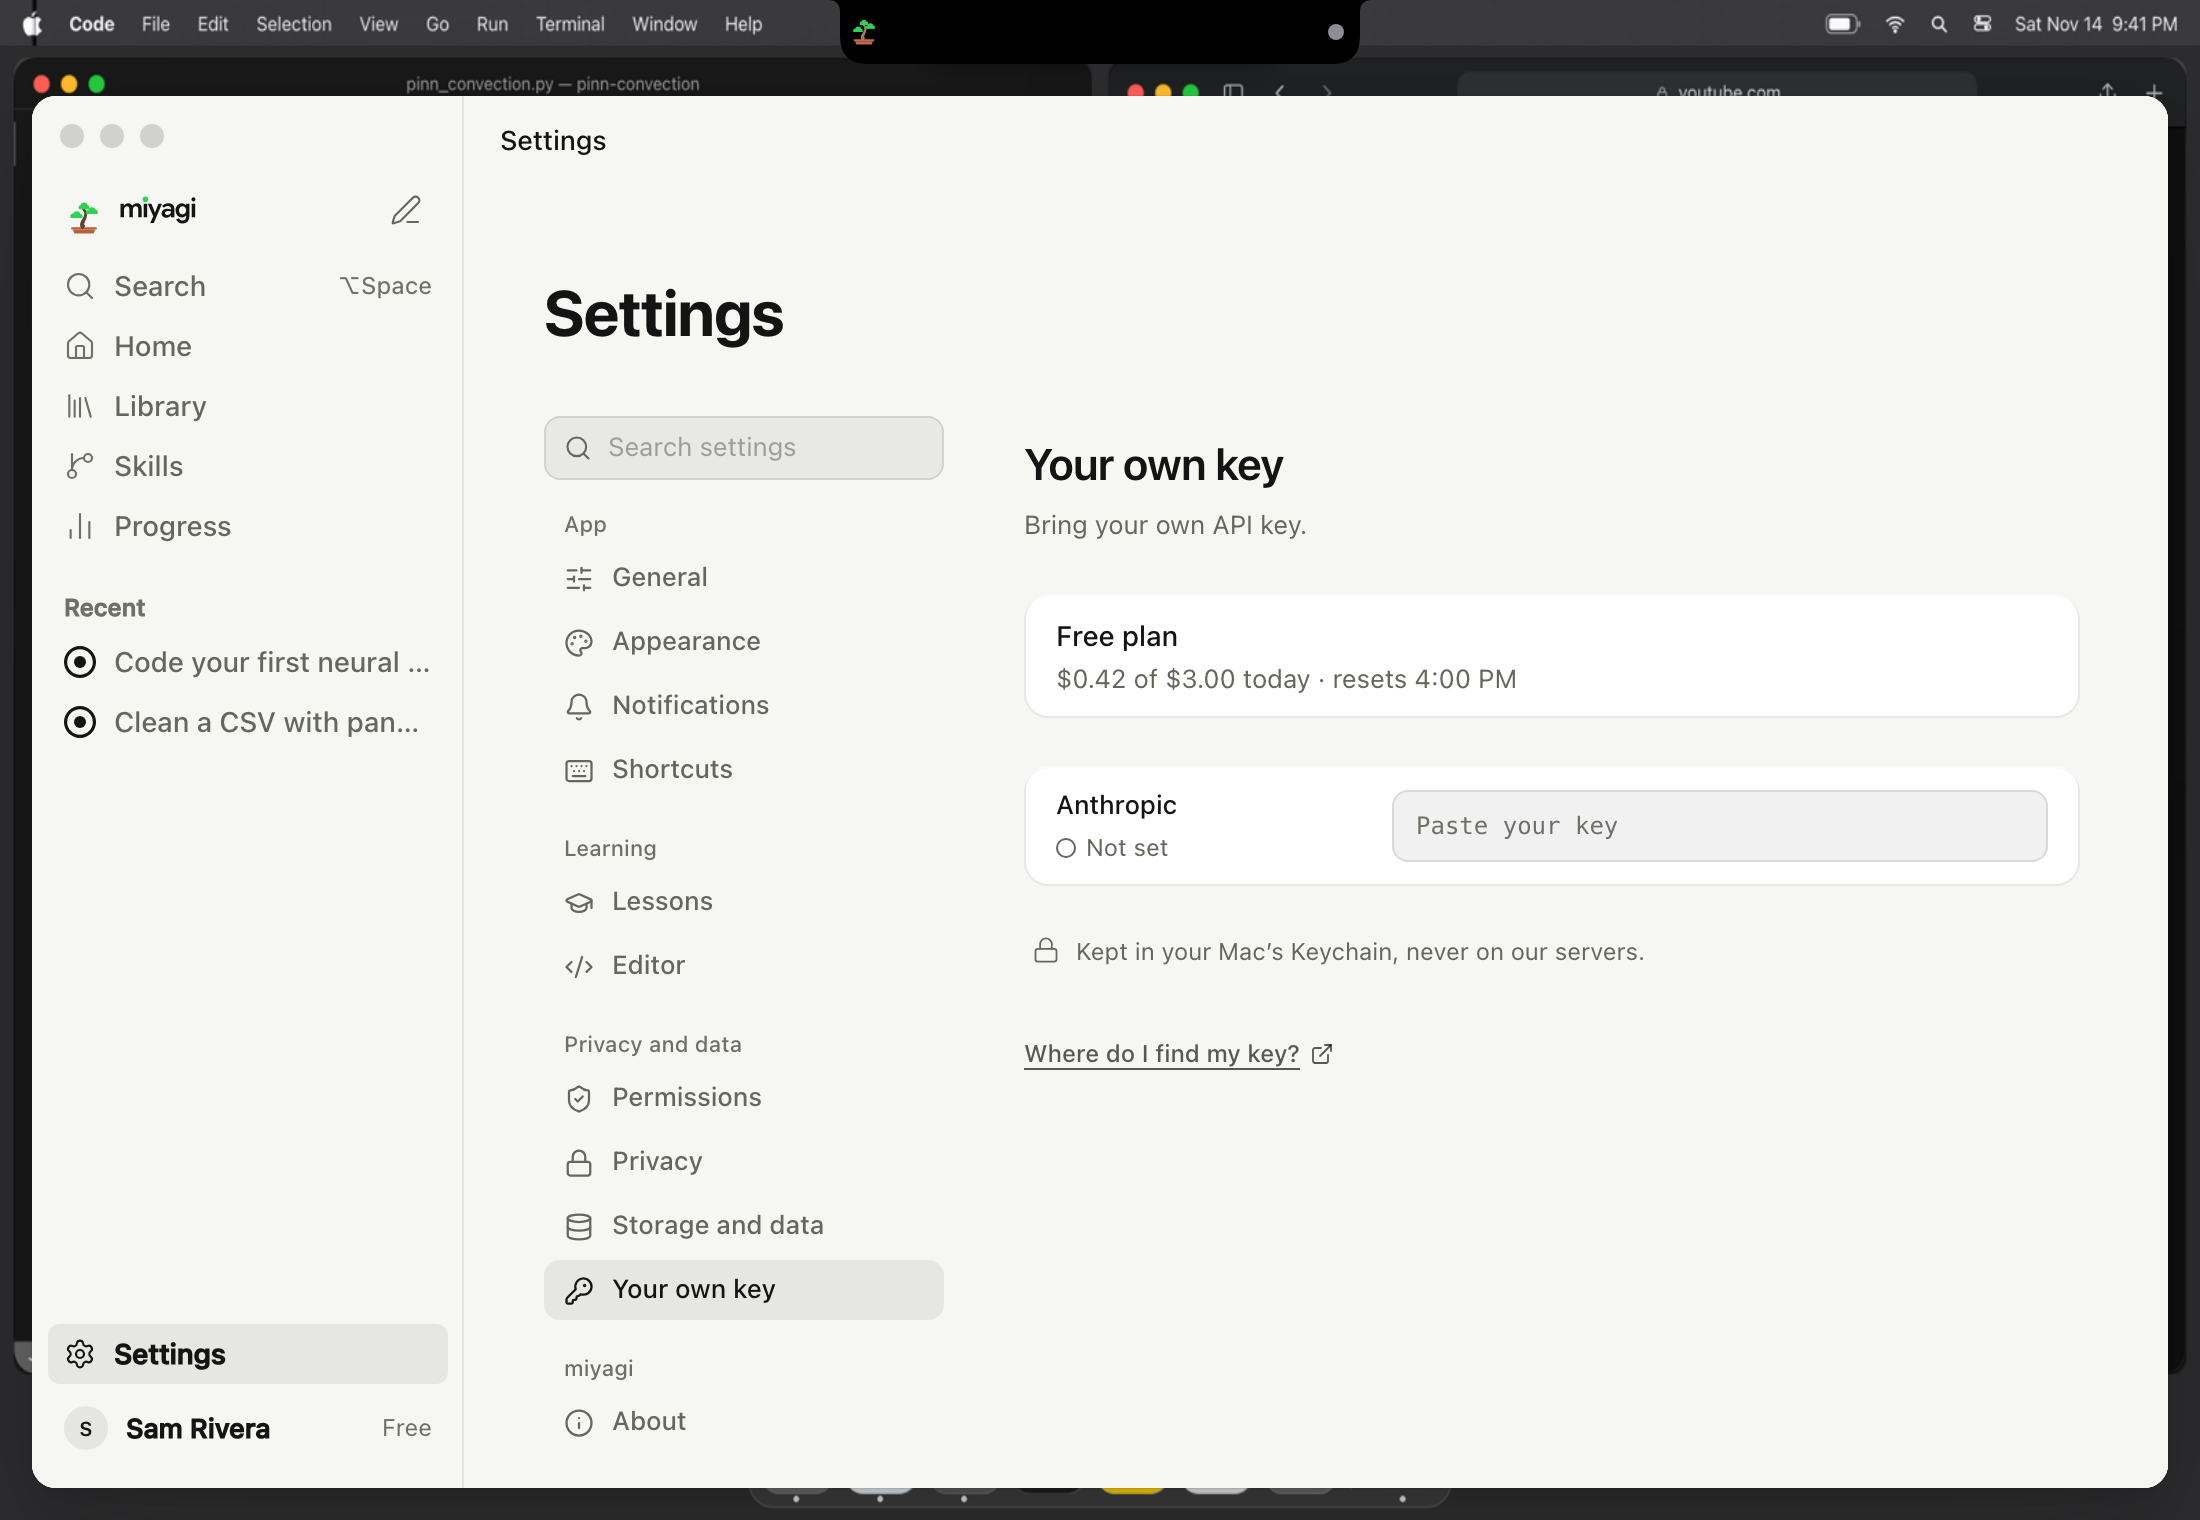
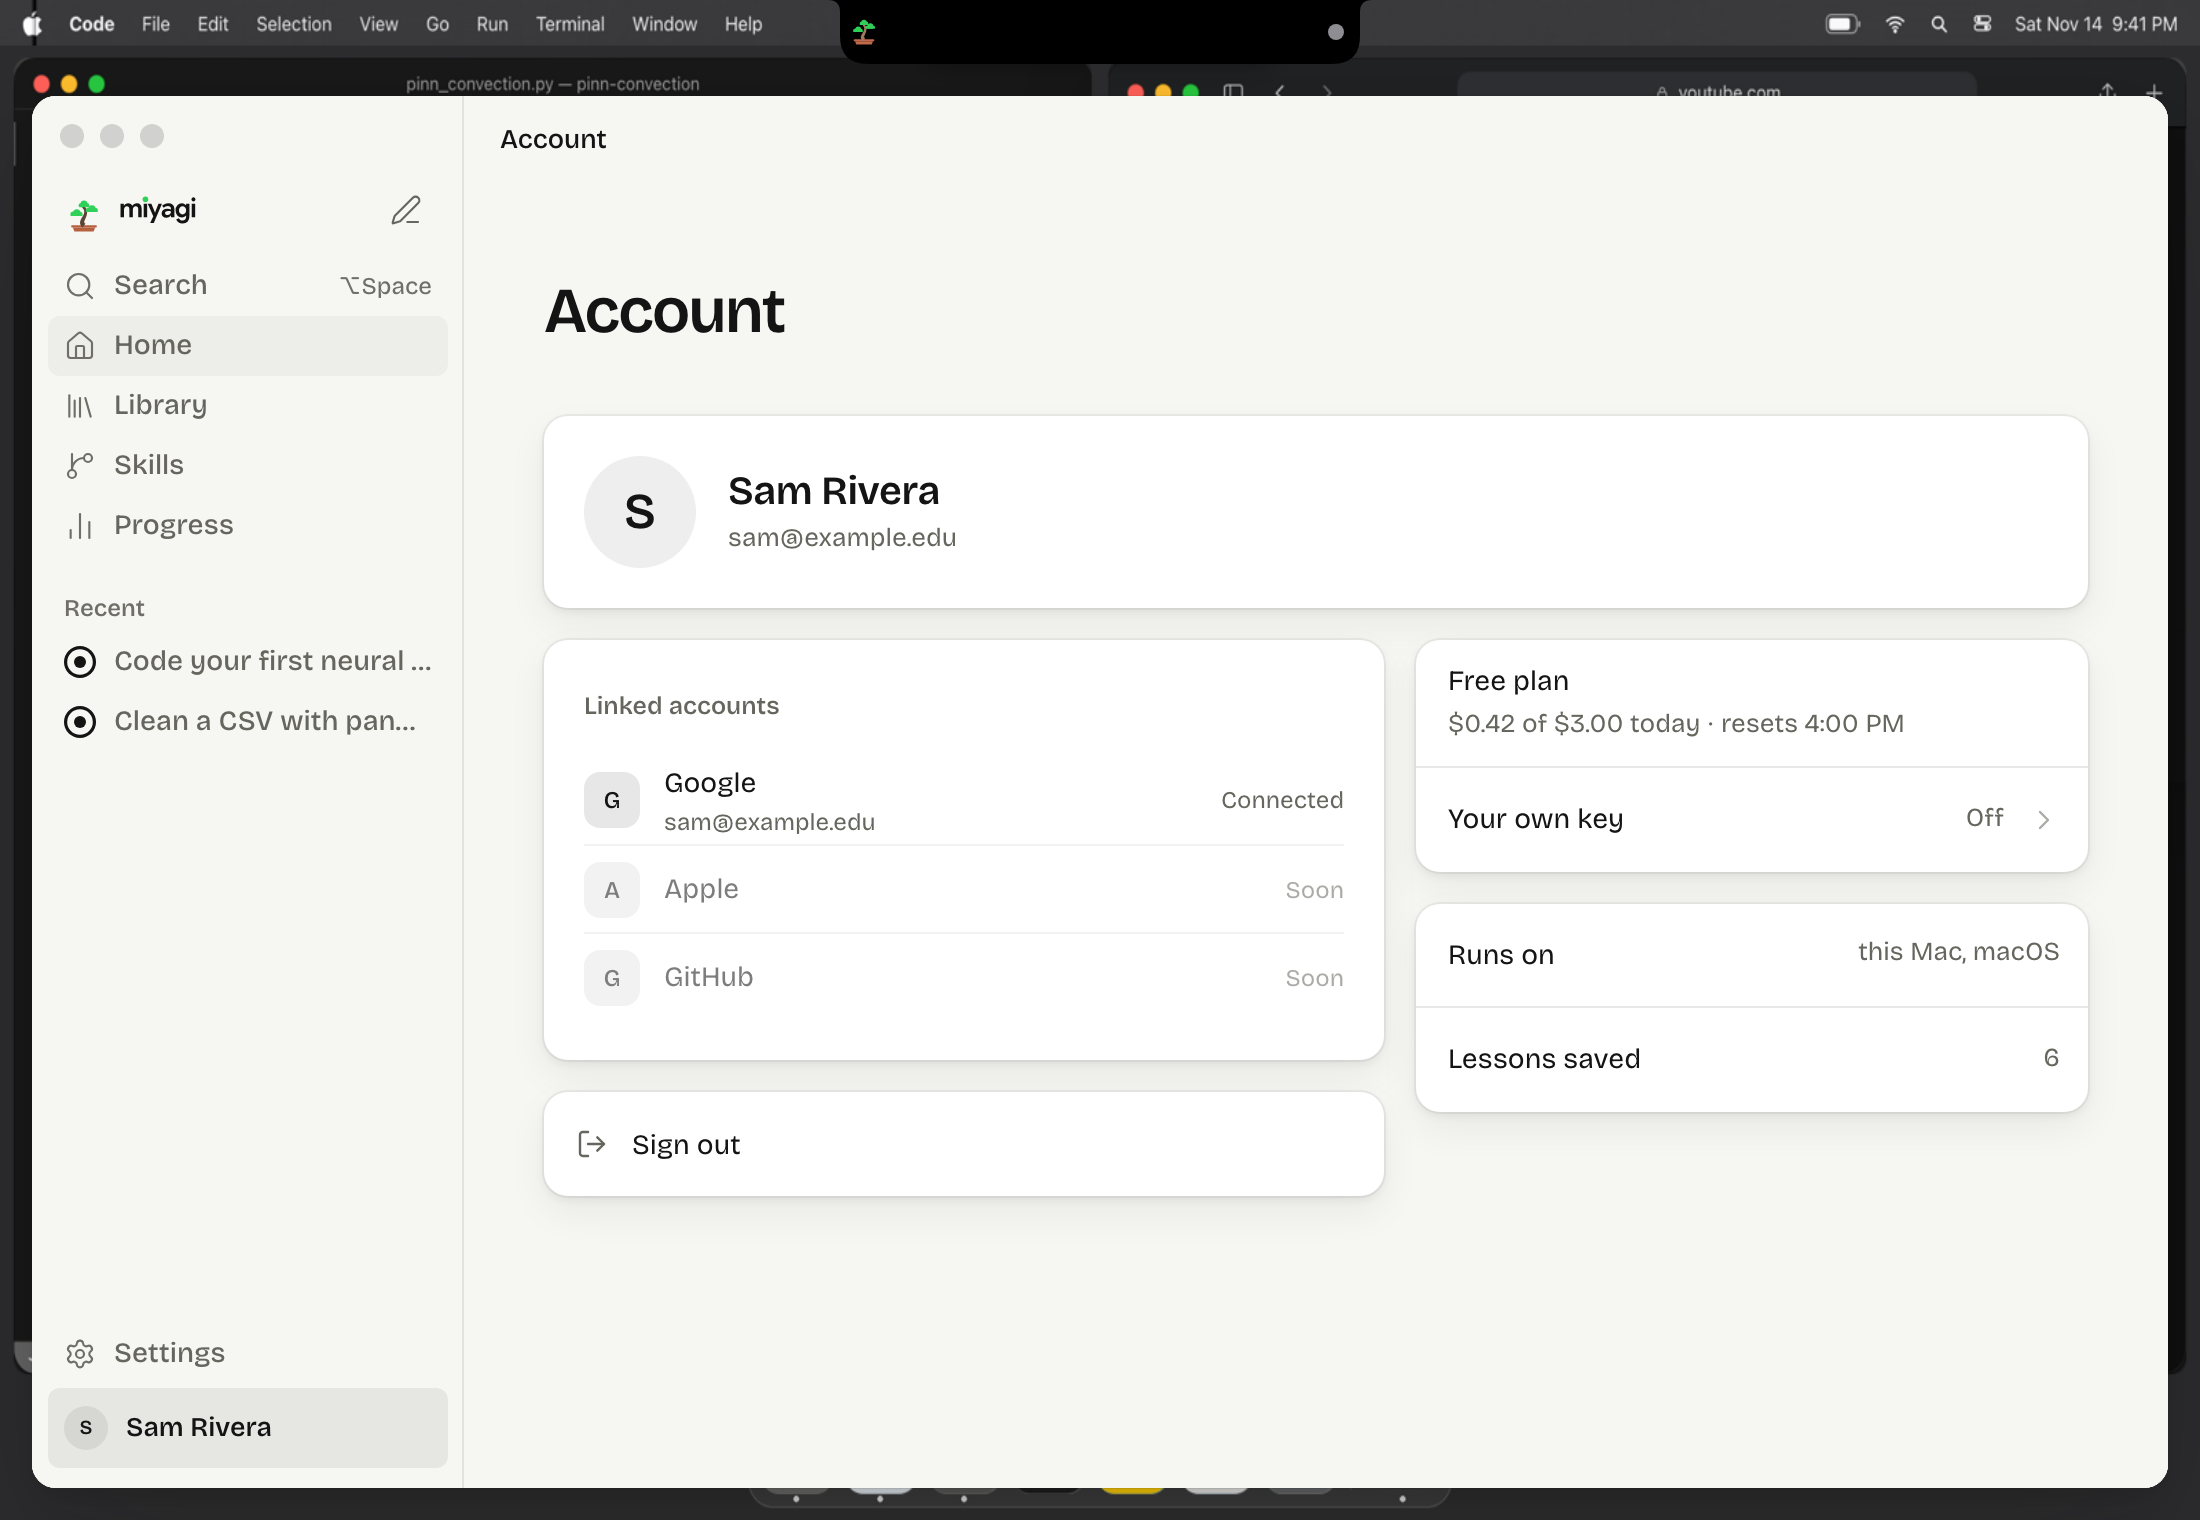
session: plan and today's use on Settings › Account (the v4 list's Account page), shots after the v4 merge

diff --git a/app/src/renderer/src/features/shell/pages/AccountPage.tsx b/app/src/renderer/src/features/shell/pages/AccountPage.tsx
@@ -3,7 +3,9 @@
  *
  * Shipped (LOGIN_ENABLED, v2Cloud off): the real login (features/auth; main keeps the session, the page only sees
  * {name, email, avatarInitial}):
- *   signed in    who you are, linked accounts, this device, Use your own key (Settings page > Your key), Sign out
+ *   signed in    who you are, linked accounts, this device, Use your own key (Settings page > Your key), Sign out;
+ *                with an answer from miyagi-cloud (features/session, MIC-30) the plan and today's use top the Account
+ *                group ("Free plan · $0.42 of $3.00 today · resets 4:00 PM", local time)
  *   signed out   one calm card, "Sign in to sync your progress across Macs"; Sign in opens the sign-in sheet over
  *                this page (AccountSheet.tsx), never a second window
  *   loading      skeleton cards until auth:get answers (no answer reads as signed out)
@@ -26,6 +28,8 @@ import { loadAccount, useAccount } from '../../account/store'
 import { Avatar } from '../../auth/Avatar'
 import { LIVE, PROVIDER_LABEL, authOn, type Provider } from '../../auth/model'
 import { loadAuth, useAuth } from '../../auth/store'
+import { capsLine, planLabel as sessionPlan } from '../../session/model'
+import { loadSession, useSession } from '../../session/store'
 import { addDays, dayKey, dayStart } from '../../dashboard/model'
 import { useDash } from '../../dashboard/store'
 import { SkeletonCard, Tile } from '../../library/motion'
@@ -204,6 +208,18 @@ function SignIn(): ReactNode {
   )
 }
 
+/** MIC-30: the plan and today's use, from POST /v1/session. Nothing when signed out or before the cloud answered. */
+function PlanLine(): ReactNode {
+  const view = useSession((s) => s.view)
+  if (!view?.signedIn || (!view.plan && !view.caps)) return null
+  return (
+    <div data-session-plan className="flex flex-col gap-[2px]" style={{ padding: '10px 16px', borderBottom: `1px solid ${fill.hairline}` }}>
+      <span style={{ fontSize: type2.md, color: color.text }}>{sessionPlan(view.plan)}</span>
+      {view.caps && <span style={{ fontSize: type2.sm, color: color.label }}>{capsLine(view.caps)}</span>}
+    </div>
+  )
+}
+
 function KeyLine({ last = true }: { last?: boolean }): ReactNode {
   const ownKey = useAccount((s) => s.ownKey)
   return <Line label="Your own key" value={ownKey === undefined ? undefined : ownKey ? 'On' : 'Off'} onClick={toYourKey} last={last} />
@@ -248,6 +264,7 @@ function LoginAccount(): ReactNode {
   useEffect(() => {
     void loadAuth()
     void loadAccount() // only for the "Your own key" On / Off (settings:get); account:get is null here
+    void loadSession() // MIC-30: main refreshes from the cloud in the background when its answer is old
   }, [])
 
   if (!loaded)
@@ -285,6 +302,7 @@ function LoginAccount(): ReactNode {
         right={
           <>
             <Group label="Account" i={1}>
+              <PlanLine />
               <KeyLine />
             </Group>
             <ThisMac />

diff --git a/app/agents/session.md b/app/agents/session.md
@@ -4,8 +4,8 @@
 
 ## Goal
 After a Google sign-in and on every launch while signed in, the app asks miyagi-cloud for the account's state
-(`POST /v1/session`, merged on `claude/eng-proxy-next` in PR #264). Settings › Your own key shows the plan and today's
-use ("$0.42 of $3.00 today · resets 4:00 PM", local time). When the cloud wants an account to build (`signin_mode`
+(`POST /v1/session`, merged on `claude/eng-proxy-next` in PR #264). Settings › Account (the shell Account page, first
+in the v4 settings list) and Settings › Your own key show the plan and today's use ("$0.42 of $3.00 today · resets 4:00 PM", local time). When the cloud wants an account to build (`signin_mode`
 "build" or "all") and the learner is a guest, the sign-in card shows as a new lesson build starts.
 
 ## Owns
@@ -15,7 +15,7 @@ use ("$0.42 of $3.00 today · resets 4:00 PM", local time). When the cloud wants
   `app/agents/shots/session-*.png`, `~/miyagi/tools/playwright/session.mjs`
 - Small edits: `cloudLink.ts` (triggers moved out; createLinker kept for the 404 fallback), `cloud.ts` (`healInstall()`),
   `auth.ts` (`onSignedOut`, `isSignedIn`), `accountDelete/wipe.ts` + `settings/erase.ts` (session.json), Settings
-  `sections/Account.tsx` (the plan group), `signincard/store.ts` (the build-start hook), `test/harness.ts` (FakeCloud
+  `sections/Account.tsx` (the plan group), `shell/pages/AccountPage.tsx` (PlanLine atop the Account group), `signincard/store.ts` (the build-start hook), `test/harness.ts` (FakeCloud
   serves /v1/session when `session` is set)
 
 ## Contract
@@ -37,7 +37,9 @@ POST <cloud>/v1/session   Authorization: Bearer <mi_ install token>   {"access_t
 
 ## Test
 `npm run dev:web -- --port 5262 --strictPort`, then
-- `/?scenario=settings&window=library&page=settings&auth=signedin&session=caps` › Your own key (also `session=pro`)
+- `/?scenario=settings&window=library&page=settings&auth=signedin&session=caps&v2Cloud=0` › Account (the shipped
+  page; without `v2Cloud=0` the stage shows the v2 mock), or › Your own key
+  (also `session=pro`)
 - `/?scenario=session&session=build` (or `all`, or `none` = off): a build starts after 1.5 s; the card shows for
   build/all, not for off
 Shots: `node ~/miyagi/tools/playwright/session.mjs 5262 app/agents/shots` (headless).
